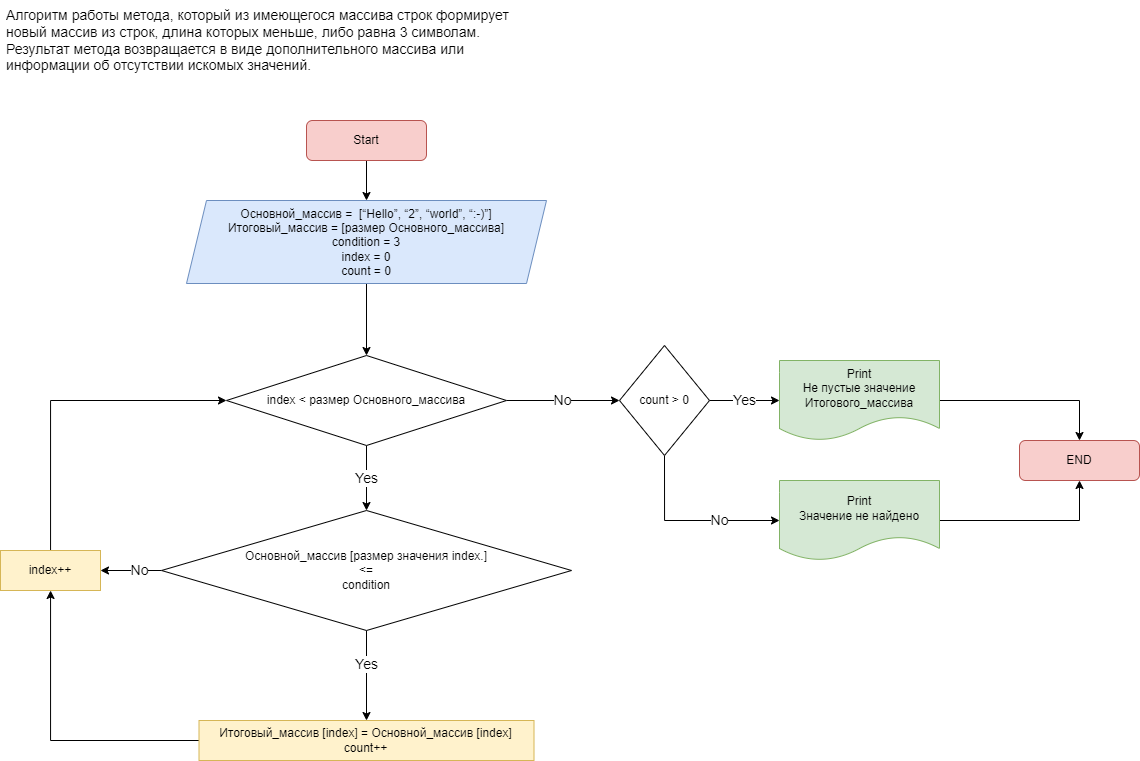
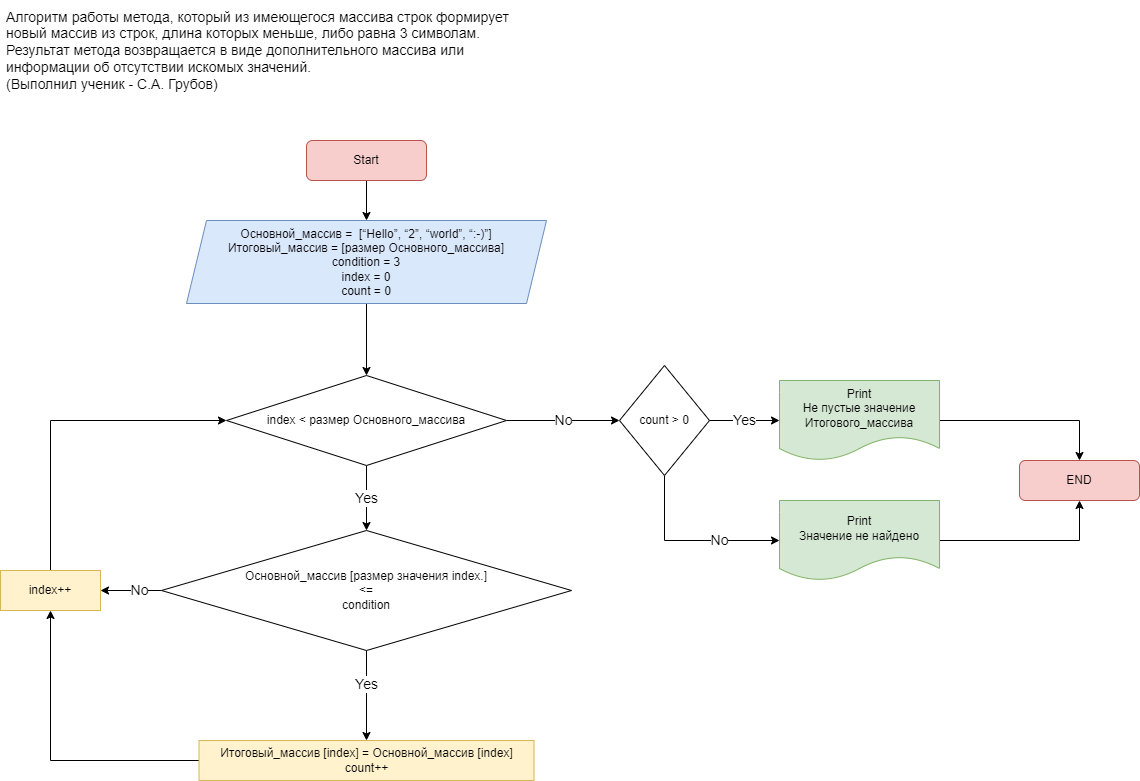
Добавил подпись

diff --git a/README.md b/README.md
@@ -29,3 +29,5 @@
 ![Блок-схема 2 метода](diagram_method2.png)
 
 Результаты контрольной работы записаны в отдельный репозиторий: https://github.com/Sergei-grub/ControlWork_april.git
+
+__**Выполнил ученик С.А. Грубов**__
